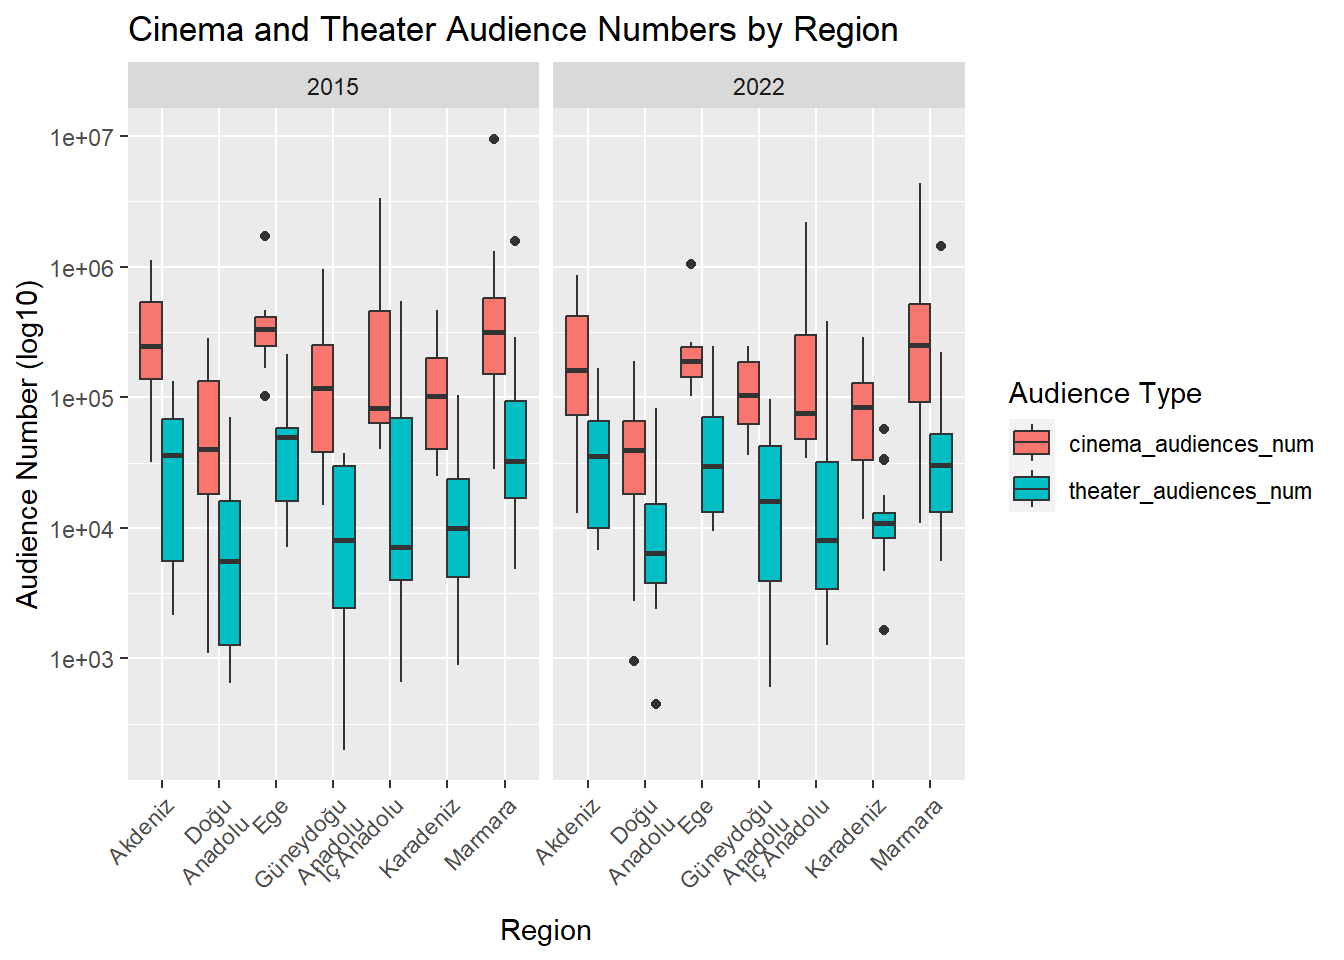
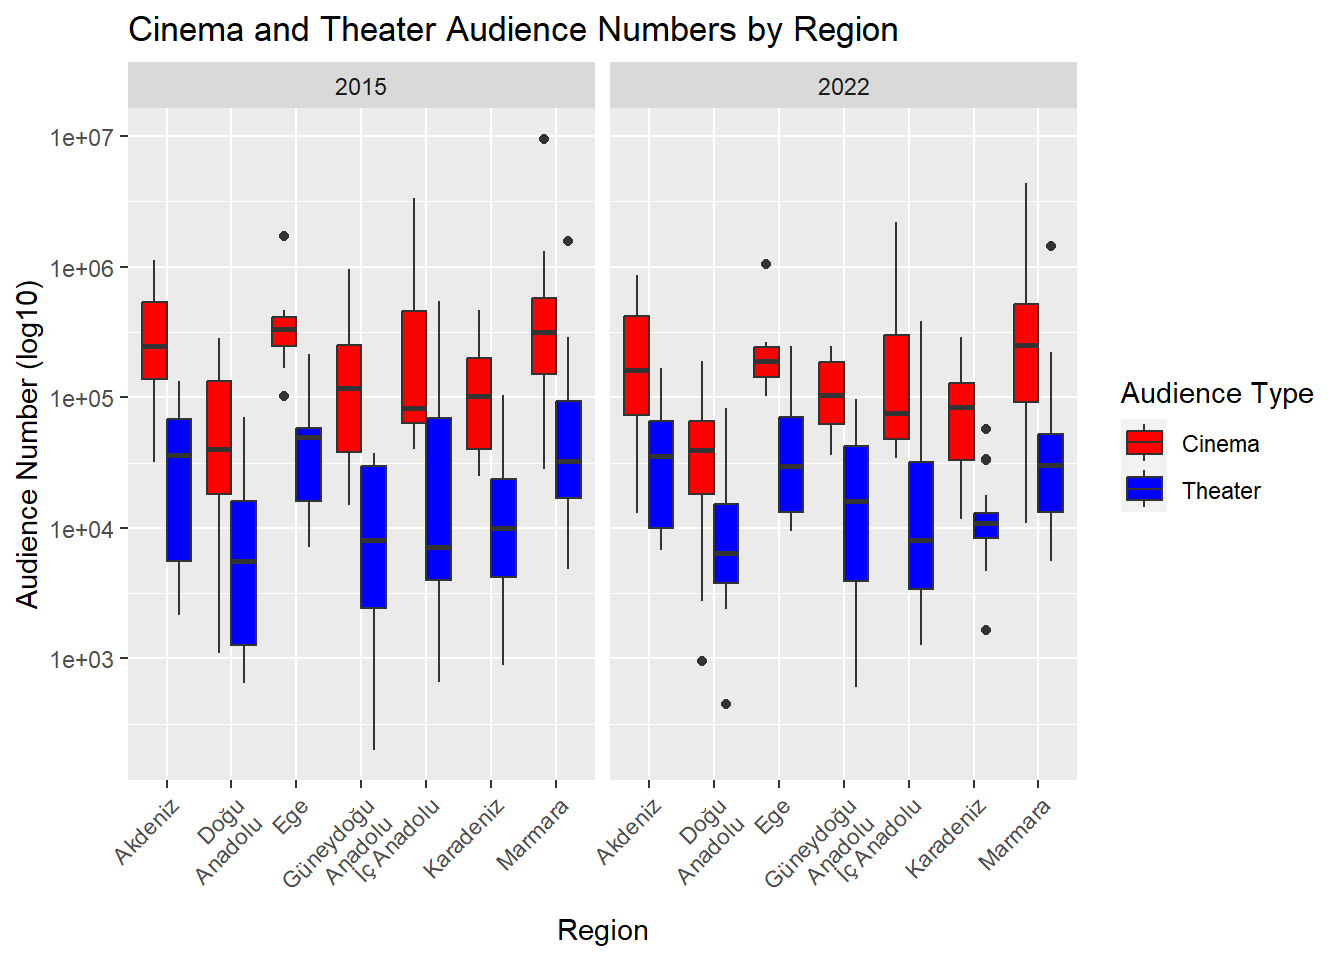
ol nolur

diff --git a/docs/analysis.html b/docs/analysis.html
@@ -646,7 +646,8 @@ pre > code.sourceCode > span > a:first-child::before { text-decoration: underlin
 <span id="cb22-7"><a href="#cb22-7" aria-hidden="true" tabindex="-1"></a>  <span class="fu">labs</span>(<span class="at">x =</span> <span class="st">"Region"</span>, <span class="at">y =</span> <span class="st">"Audience Number (log10)"</span>, <span class="at">fill =</span> <span class="st">"Audience Type"</span>) <span class="sc">+</span></span>
 <span id="cb22-8"><a href="#cb22-8" aria-hidden="true" tabindex="-1"></a>  <span class="fu">ggtitle</span>(<span class="st">"Cinema and Theater Audience Numbers by Region"</span>) <span class="sc">+</span></span>
 <span id="cb22-9"><a href="#cb22-9" aria-hidden="true" tabindex="-1"></a>  <span class="fu">theme</span>(<span class="at">axis.text.x =</span> <span class="fu">element_text</span>(<span class="at">angle =</span> <span class="dv">45</span>, <span class="at">hjust =</span> <span class="dv">1</span>)) <span class="sc">+</span></span>
-<span id="cb22-10"><a href="#cb22-10" aria-hidden="true" tabindex="-1"></a>  <span class="fu">scale_x_discrete</span>(<span class="at">labels =</span> <span class="cf">function</span>(x) <span class="fu">str_wrap</span>(x, <span class="at">width =</span> <span class="dv">10</span>))   <span class="sc">+</span> <span class="fu">facet_grid</span>(.<span class="sc">~</span>year)</span></code><button title="Copy to Clipboard" class="code-copy-button"><i class="bi"></i></button></pre></div>
+<span id="cb22-10"><a href="#cb22-10" aria-hidden="true" tabindex="-1"></a>  <span class="fu">scale_x_discrete</span>(<span class="at">labels =</span> <span class="cf">function</span>(x) <span class="fu">str_wrap</span>(x, <span class="at">width =</span> <span class="dv">10</span>)) <span class="sc">+</span> <span class="fu">scale_fill_manual</span>(<span class="at">values =</span> <span class="fu">c</span>(<span class="st">"Red"</span>, <span class="st">"Blue"</span>), <span class="at">labels =</span> <span class="fu">c</span>(<span class="st">"Cinema"</span>, <span class="st">"Theater"</span>), <span class="at">name =</span> <span class="st">"Audience Type"</span>) <span class="sc">+</span></span>
+<span id="cb22-11"><a href="#cb22-11" aria-hidden="true" tabindex="-1"></a>  <span class="fu">facet_grid</span>(.<span class="sc">~</span>year)</span></code><button title="Copy to Clipboard" class="code-copy-button"><i class="bi"></i></button></pre></div>
 </details>
 <div class="cell-output-display">
 <p><img src="analysis_files/figure-html/unnamed-chunk-20-1.png" class="img-fluid" width="672"></p>
